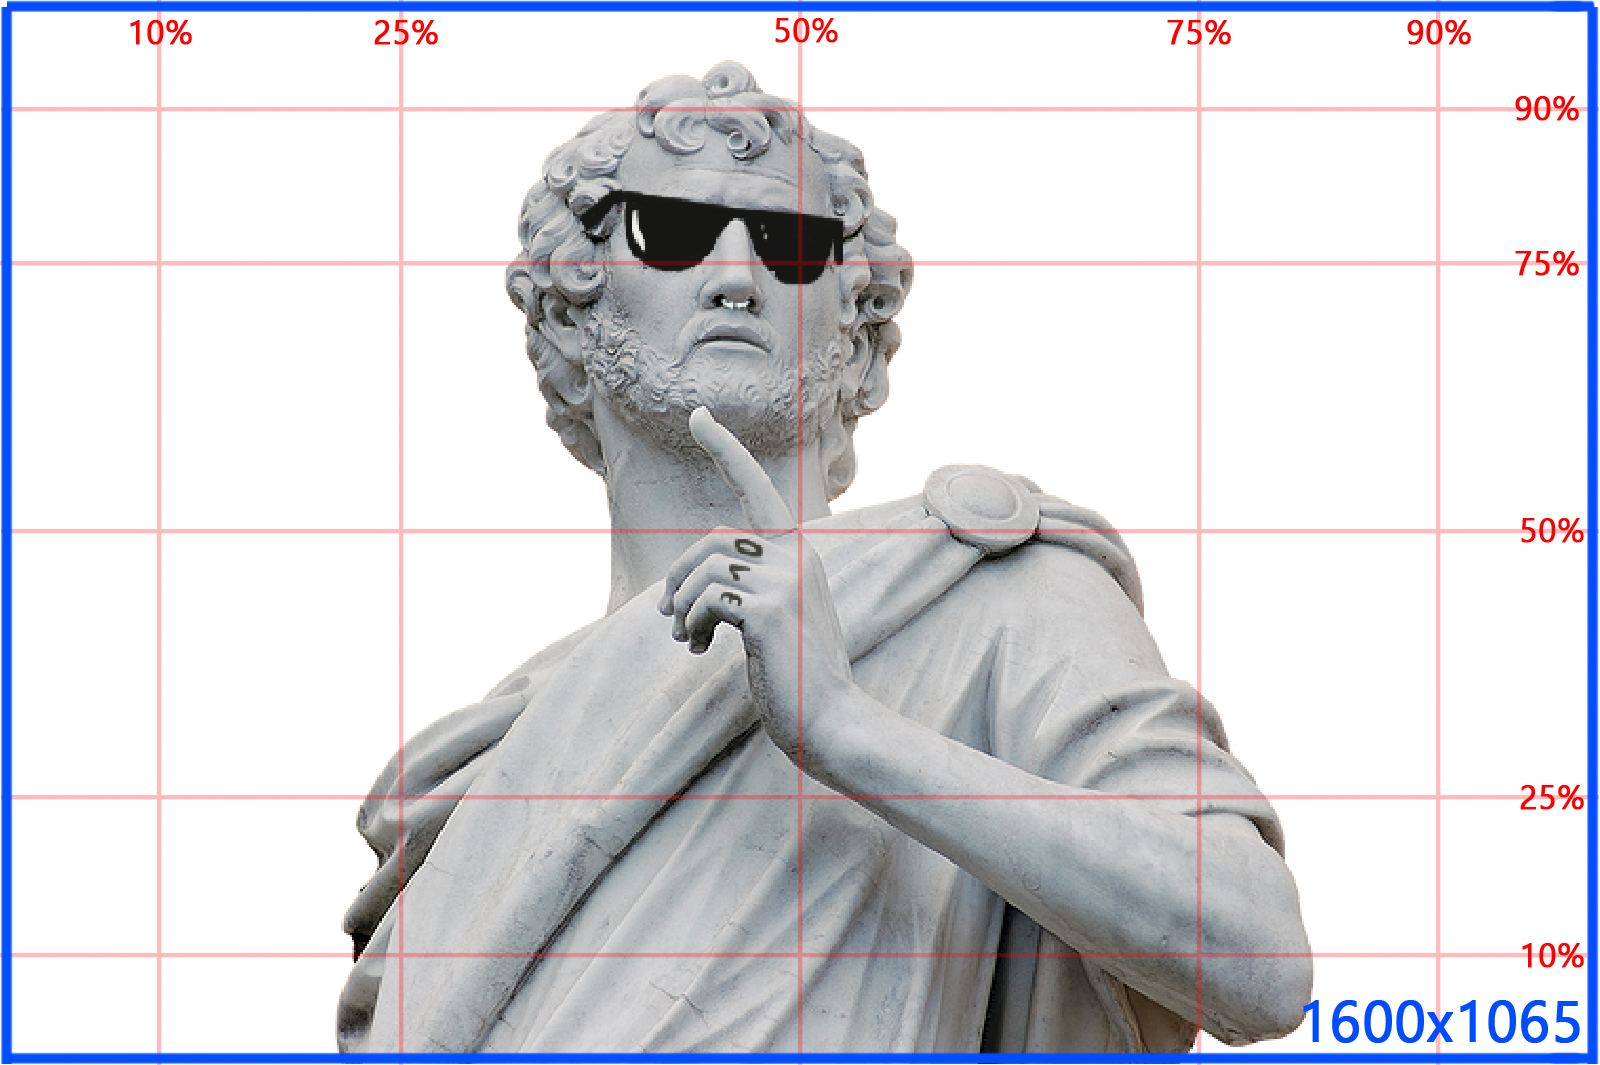
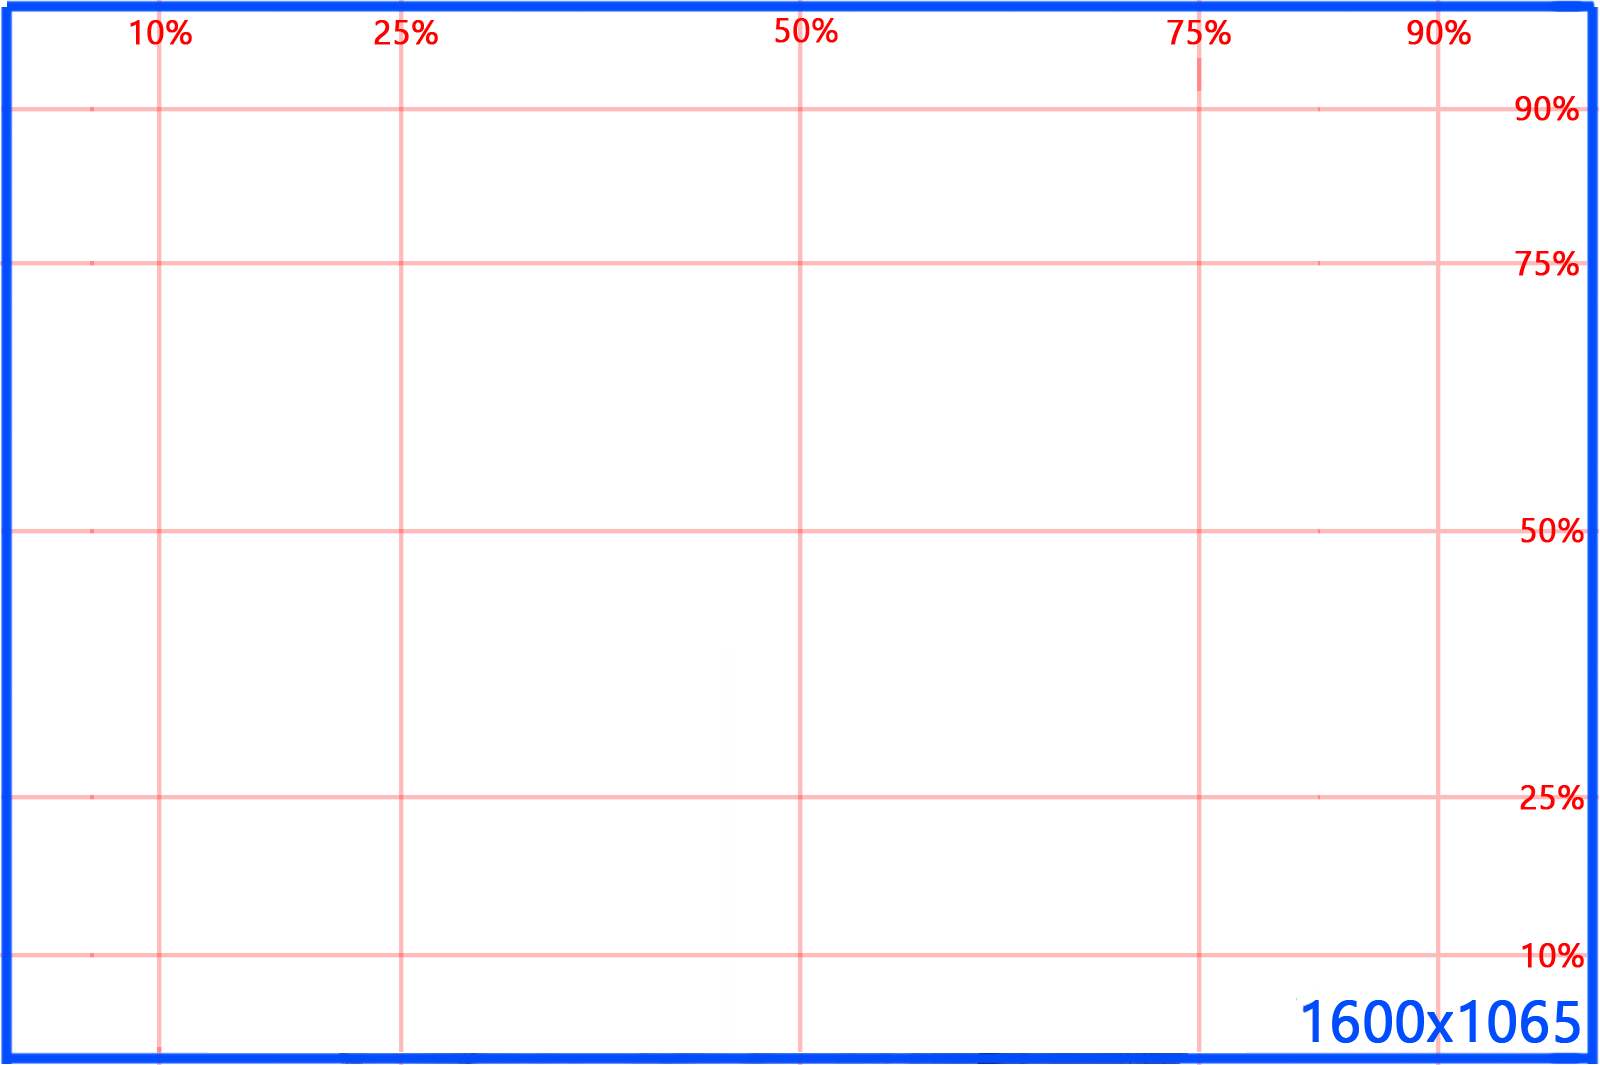
varie aggiunte

diff --git a/game/debug_game_index.js b/game/debug_game_index.js
@@ -1,43 +1,16 @@
-// === CONFIGURAZIONE TEMPI DI ATTESA E ANIMAZIONI ===
-// Durata animazione movimento pedina (ms)
-const DURATA_ANIMAZIONE_MOVIMENTO = 500;
-// Attesa dopo movimento prima di check cell (ms)
-const ATTESA_POST_MOVIMENTO = 200;
-// Attesa dopo check cell senza domande (ms)
-const ATTESA_POST_CHECK_CELL = 200;
-// Attesa dopo risposta bonus step (ms)
-const ATTESA_POST_BONUS_STEP = 200;
-// Attesa dopo end turn (ms)
-const ATTESA_POST_END_TURN = 200;
-// Attesa tra step MOVE e CHECK_CELL (ms)
-const ATTESA_MOVE_TO_CHECK_CELL = 200;
-// Attesa tra click risposta e bonus step (ms)
-const ATTESA_RISPOSTA_TO_BONUS_STEP = 200;
-// Attesa tra bonus step e end turn (ms)
-const ATTESA_BONUS_TO_END_TURN = 200;
-// Durata animazione dado (ms)
-const DURATA_ANIMAZIONE_DADO = 800;
-// Attesa dopo estrazione dado prima di chiudere box (ms)
-const ATTESA_POST_DADO = 500;
-// Durata countdown inizio partita (s)
-const DURATA_COUNTDOWN_START = 0;
-
-const stepGameStateBtn = document.getElementById("step-game-state-btn");
+//const stepGameStateBtn = document.getElementById("step-game-state-btn");
 var stepAnimationInProgress = false;
-var diceFaces = 1;
 var lastDiceRoll = 0;
 var lastBonusSteps = 0;
-// Variabile per tenere traccia dei bonus_points della domanda corrente
-let lastBonusPoints = 1;
 
-stepGameStateBtn.addEventListener("click", () => {
-    if(currentGameTurn == 0){
-        startGame();
-    }else{
-        newStep();
-    }
-
-});
+//stepGameStateBtn.addEventListener("click", () => {
+//    if(currentGameTurn == 0){
+//        startGame();
+//    }else{
+//        newStep();
+//    }
+//
+//});
 
 function newStep(){
     updateStepIndicator();
@@ -181,6 +154,17 @@ function resolveStartTurn(playerId) {
     console.log(getCurrentPlayerName()+" inizia il turno.");
 }
 
+// Abilita lancio dado anche con SPAZIO o INVIO
+window.addEventListener('keydown', function(e) {
+    const box = document.getElementById('turno-giocatore-box');
+    if (!box || box.style.display === 'none') return;
+    if (box.getAttribute('data-rolling') !== 'true') return;
+    if (e.code === 'Space' || e.code === 'Enter') {
+        e.preventDefault();
+        box.click();
+    }
+});
+
 function resolveThrow(playerId){
     // Il dado è già stato animato e il risultato è già stato estratto in resolveStartTurn
     // Quindi qui non serve più animare o mostrare nulla
@@ -265,7 +249,7 @@ function visualizzaDomanda(playerId, domanda) {
     // IMG personaggio
     const img = document.createElement('img');
     img.id = 'domanda-personaggio-img';
-    img.src = '../assets/schema_personaggio.png';
+    img.src = showArtworkGrid ? '../assets/schema_personaggio.png' : '../assets/personaggio.png';
     img.alt = 'Personaggio';
     img.style.scale = '70%';
     img.style.height = '120px';
@@ -352,8 +336,8 @@ function visualizzaDomanda(playerId, domanda) {
             modal.style.display = 'none';
             if(mainContent) mainContent.classList.remove('blurred-bg');
             // Se la risposta è corretta, assegna il bonus_points, altrimenti 0
-            lastBonusSteps = r.isCorrect ? lastBonusPoints : 0;
-            resolveBonusStep(playerId);
+            lastBonusSteps = r.isCorrect ? (domanda.bonus_points ? domanda.bonus_points : defaultBonusPoints) : wrongAnswerPenality;
+            newStep();
         };
         rightCol.appendChild(btn);
     });
@@ -366,6 +350,7 @@ function visualizzaDomanda(playerId, domanda) {
 }
 
 function resolveBonusStep(playerId){
+    console.log("bonus steps "+lastBonusSteps);
     // Esegui il movimento bonus e solo dopo passa allo step successivo
     movePieceToPositionWithStep(playerId, lastBonusSteps).then(() => {
         lastBonusSteps = 0;
@@ -398,10 +383,13 @@ function rollDice(){
 async function movePieceToPositionWithStep(playerId, roll) {
     stepAnimationInProgress = true;
 
+    const direction = roll >= 0 ? 1 : -1;
+    roll = Math.abs(roll);
+
     for (let i = 0; i < roll; i++) {
         const cellNumber = getPlayerPosition(playerId);
-        setPlayerPosition(playerId, cellNumber + 1);
-        takeStep(playerId, cellNumber + 1);
+        setPlayerPosition(playerId, cellNumber + direction);
+        takeStep(playerId, cellNumber + direction);
         await new Promise(resolve => setTimeout(resolve, DURATA_ANIMAZIONE_MOVIMENTO)); // 0.5 secondi di attesa
     }
 
@@ -448,7 +436,7 @@ function updateStepIndicator() {
     let state = getCurrentTurnState ? getCurrentTurnState() : '';
     let text = `Turno: ${player} | Stato: ${state}`;
     if (state === 'BONUS_STEP') {
-        text += ` | Bonus Points: ${lastBonusPoints}`;
+        text += ` | Bonus Points: ${lastBonusSteps}`;
     }
     indicator.textContent = text;
 }

diff --git a/game/settings/timer_settings.js b/game/settings/timer_settings.js
@@ -1,0 +1,23 @@
+// === CONFIGURAZIONE TEMPI DI ATTESA E ANIMAZIONI ===
+// Durata animazione movimento pedina (ms)
+const DURATA_ANIMAZIONE_MOVIMENTO = 500;
+// Attesa dopo movimento prima di check cell (ms)
+const ATTESA_POST_MOVIMENTO = 200;
+// Attesa dopo check cell senza domande (ms)
+const ATTESA_POST_CHECK_CELL = 200;
+// Attesa dopo risposta bonus step (ms)
+const ATTESA_POST_BONUS_STEP = 200;
+// Attesa dopo end turn (ms)
+const ATTESA_POST_END_TURN = 200;
+// Attesa tra step MOVE e CHECK_CELL (ms)
+const ATTESA_MOVE_TO_CHECK_CELL = 200;
+// Attesa tra click risposta e bonus step (ms)
+const ATTESA_RISPOSTA_TO_BONUS_STEP = 200;
+// Attesa tra bonus step e end turn (ms)
+const ATTESA_BONUS_TO_END_TURN = 200;
+// Durata animazione dado (ms)
+const DURATA_ANIMAZIONE_DADO = 800;
+// Attesa dopo estrazione dado prima di chiudere box (ms)
+const ATTESA_POST_DADO = 500;
+// Durata countdown inizio partita (s)
+const DURATA_COUNTDOWN_START = 0;

diff --git a/game/game_index.html b/game/game_index.html
@@ -6,7 +6,7 @@
     <link rel="stylesheet" href="game_index.css" />
 </head>
 <body>
-    <div id="debug-bar" style="display: none;">
+    <div id="debug-bar">
         <button id="step-game-state-btn">Prossimo stato</button>
     </div>
 
@@ -36,9 +36,12 @@
 </div>
 
     <script type="text/javascript" src="game_index.js"></script>
-    <script type="text/javascript" src="settings/settings.js"></script>
+    <script type="text/javascript" src="content/content.js"></script>
     <script type="text/javascript" src="game_state.js"></script>
     <script type="text/javascript" src="board_state.js"></script>
     <script type="text/javascript" src="debug_game_index.js"></script>
+    <script type="text/javascript" src="settings/game_settings.js"></script>
+    <script type="text/javascript" src="settings/timer_settings.js"></script>
+    <script type="text/javascript" src="settings/debug_settings.js"></script>
 </body>
 </html>

diff --git a/game/game_index.js b/game/game_index.js
@@ -141,6 +141,8 @@ window.addEventListener("DOMContentLoaded", function () {
     if(settings == undefined) {console.error("Settings not found!"); return;}
     loadSettings(settings);
 
+    document.querySelector('#debug-bar').style.display = showDebug ? 'block' : 'none';
+    document.querySelector('#step-indicator').style.display = showSteps ? 'block' : 'none';
 });
 
 function loadSettings(settings) {

diff --git a/tool/tool_index.js b/tool/tool_index.js
@@ -406,7 +406,7 @@ exportAllBtn.addEventListener("click", function () {
   const url = URL.createObjectURL(blob);
   const a = document.createElement("a");
   a.href = url;
-  a.download = "game-settings.js";
+  a.download = "content.js";
   document.body.appendChild(a);
   a.click();
   setTimeout(() => {

diff --git a/game/content/content.js b/game/content/content.js
@@ -43,7 +43,7 @@ var settings = {
           "rispostaCorretta": "2",
           "risposta1": "1",
           "risposta2": "3",
-		  "bonus_points": 3
+		  "bonus_points": 30
         }
       ]
     },

diff --git a/game/board_state.js b/game/board_state.js
@@ -1,4 +1,3 @@
-// Mappa globale delle celle
 var boardState = new Map();
 var playerPosition = new Map();
 

diff --git a/game/settings/game_settings.js b/game/settings/game_settings.js
@@ -1,0 +1,3 @@
+var diceFaces = 6;
+var wrongAnswerPenality = -1;
+var defaultBonusPoints = 1;

diff --git a/game/settings/debug_settings.js b/game/settings/debug_settings.js
@@ -1,0 +1,3 @@
+var showSteps=false;
+var showDebug=false;
+var showArtworkGrid=false;
